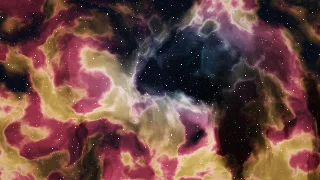
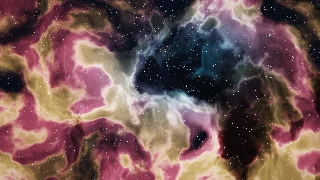
Enhance Hubble Nebula audio reactivity

diff --git a/src/modules/HubbleNebulaModule.ts b/src/modules/HubbleNebulaModule.ts
@@ -8,7 +8,7 @@ import { ShaderModule } from "./ShaderModule";
 const fragment =
   common +
   `
-uniform float uIntensity,uHue,uDust,uStars,uDrift;
+uniform float uIntensity,uHue,uDust,uStars,uDrift,uReactivity;
 vec3 hash3(vec3 p){return fract(sin(vec3(dot(p,vec3(127.1,311.7,74.7)),dot(p,vec3(269.5,183.3,246.1)),dot(p,vec3(113.5,271.9,124.6))))*43758.5453);}
 float noise(vec3 p){
  vec3 i=floor(p),f=fract(p);f=f*f*(3.-2.*f);
@@ -24,21 +24,27 @@ vec3 stars(vec2 p,float layer){
  for(int x=-1;x<=1;x++)for(int y=-1;y<=1;y++){
   vec2 id=cell+vec2(float(x),float(y));vec3 h=hash3(vec3(id,layer+13.));
   vec2 d=grid-id-.15-h.xy*.7;float r=length(d);
-  float bright=pow(h.z,12.);float size=.018+bright*.022;
+  float sparkle=fft(h.y)*uReactivity;
+  float bright=pow(h.z,12.);float size=(.018+bright*.022)*(1.+sparkle*.65);
   float core=exp(-r*r/(size*size));
   float halo=.035*exp(-r*13.);
-  float spikes=exp(-min(abs(d.x),abs(d.y))*150.)*exp(-r*7.)*bright*.45;
+  float spikes=exp(-min(abs(d.x),abs(d.y))*150.)*exp(-r*7.)*bright*(.45+uTreble*uReactivity*1.8);
   vec3 color=mix(vec3(.58,.76,1.),vec3(1.,.78,.51),h.x);
-  col+=color*(core+halo+spikes)*(.25+bright*4.)*(.9+.1*sin(uTime*.6+h.y*30.));
+  col+=color*(core+halo+spikes)*(.25+bright*4.)*(.9+.1*sin(uTime*.6+h.y*30.))*(1.+sparkle*2.+uTreble*uReactivity*.6);
  }
  return col*uStars;
 }
 void main(){
  float t=uTime*.025*uDrift;
  vec2 p=(vUv-.5)*vec2(uResolution.x/uResolution.y,1.)*2.;
- p=rot(.16)*p/(1.+uBass*.035);
+ float bass=uBass*uReactivity,beat=uBeat*uReactivity;
+ p=rot(.16)*p/(1.+bass*.14+beat*.035);
+ // Expanding illumination fronts follow the decaying beat envelope.
+ float radius=length(p-vec2(.35,.22));
+ float front=exp(-pow((radius-(1.-clamp(uBeat,0.,1.))*1.9)/.16,2.))*beat;
  vec3 q=vec3(p*1.65+vec2(t*.12,-t*.08),t*.09);
  vec2 warp=vec2(fbm(q+3.7),fbm(q+19.1))-.5;
+ q.xy+=warp*bass*.38+vec2(-warp.y,warp.x)*uMid*uReactivity*.22;
  float cloud=fbm(q+vec3(warp*2.4,0.));
  float fine=fbm(q*3.4+vec3(warp*3.,2.));
  float bank=smoothstep(.28,.75,cloud);
@@ -46,18 +52,19 @@ void main(){
  float cavity=exp(-dot((p-vec2(.35,.22))*vec2(.9,1.25),(p-vec2(.35,.22))*vec2(.9,1.25))*2.);
  vec3 oxygen=vec3(.045,.48,.72),hydrogen=vec3(.85,.12,.18),sulfur=vec3(1.,.55,.13);
  vec3 gas=mix(hydrogen,sulfur,smoothstep(.37,.67,fine));
- gas=mix(gas,oxygen,cavity*.9);
+ gas=mix(gas,oxygen,clamp(cavity*.9+uMid*uReactivity*.18,0.,1.));
  // Hue shifts preserve the default gold/cyan narrowband-inspired palette.
  gas=mix(gas,gas.gbr,clamp(uHue,0.,1.));
- vec3 col=vec3(.001,.003,.009)+gas*bank*(.24+ridge*.65)*(1.+uRms*.65+uMid*.25);
+ float spectrum=fft(clamp(radius*.45,0.,1.))*uReactivity;
+ vec3 col=vec3(.001,.003,.009)+gas*bank*(.24+ridge*(.65+spectrum*.8))*(1.+uReactivity*(uRms*.9+uMid*.5)+front*1.6);
  float pillars=fbm(vec3(p.x*3.+warp.x*1.6,p.y*.85+warp.y*.8+1.4,t*.035+7.));
  float dust=smoothstep(.48,.7,pillars)*(1.-smoothstep(-.8,.65,p.y))*uDust;
  float transmission=exp(-dust*4.5);
  col*=transmission;
- col+=gas*pow(max(0.,1.-abs(pillars-.5)*22.),3.)*.13*min(uDust,1.5)*bank;
+ col+=gas*pow(max(0.,1.-abs(pillars-.5)*22.),3.)*(.13+bass*.25+front*.4)*min(uDust,1.5)*bank;
  col+=stars(p+vec2(t*.035,0.),0.)*mix(.35,1.,transmission);
  col+=stars(p*.83-vec2(t*.018,0.),1.)*.45;
- col*=uIntensity*(1.+uBeat*.12);
+ col*=uIntensity*(1.+beat*.22);
  col*=1.-.3*smoothstep(.4,2.2,length(p));
  gl_FragColor=vec4(max(col,vec3(0.)),1.);
 }`;
@@ -65,13 +72,22 @@ void main(){
 export class HubbleNebulaModule extends ShaderModule {
   readonly id = "hubble-nebula";
   readonly name = "Hubble Nebula";
-  params = { speed: 1, intensity: 1.6, hue: 0, dust: 1, stars: 1, drift: 1 };
+  params = {
+    speed: 1,
+    intensity: 1.6,
+    hue: 0,
+    dust: 1,
+    stars: 1,
+    drift: 1,
+    reactivity: 1,
+  };
   private readonly extra = {
     uIntensity: { value: 1.6 },
     uHue: { value: 0 },
     uDust: { value: 1 },
     uStars: { value: 1 },
     uDrift: { value: 1 },
+    uReactivity: { value: 1 },
   };
   init(_renderer: T.WebGLRenderer, width: number, height: number) {
     this.pass = new FullscreenPass(fragment, {
@@ -88,6 +104,6 @@ export class HubbleNebulaModule extends ShaderModule {
     this.extra.uDust.value = this.params.dust;
     this.extra.uStars.value = this.params.stars;
     this.extra.uDrift.value = this.params.drift;
+    this.extra.uReactivity.value = this.params.reactivity;
   }
 }
-

diff --git a/README.md b/README.md
@@ -47,7 +47,7 @@ Application-owned frame code creates no arrays, vectors, objects, typed-array vi
 
 ## Extending
 
-**Hubble Nebula** is a procedural scene inspired by Hubble telescope imagery, with gold and cyan emission clouds, dark dust pillars, layered stars and diffraction spikes. Bass gently expands the view, mids and overall audio energy brighten the gas, and beats pulse the exposure. Speed, intensity, hue, dust, stars and drift are adjustable in the control rack. It remains visible without audio and uses the shared HDR, post-processing and deterministic video export pipeline. No telescope photographs or external assets are required.
+**Hubble Nebula** is a procedural scene inspired by Hubble telescope imagery, with gold and cyan emission clouds, dark dust pillars, layered stars and diffraction spikes. Bass expands and bends the clouds, mids shift the gas toward cyan, and beats send expanding illumination fronts across the dust. Individual spectrum bands light cloud filaments and stars, while treble strengthens their diffraction spikes. Speed, intensity, hue, dust, stars, drift and reactivity are adjustable in the control rack; reactivity at zero disables the audio response. It remains visible without audio and uses the shared HDR, post-processing and deterministic video export pipeline. No telescope photographs or external assets are required.
 
 Five additional shader scenes adapt the psychedelic ring engine: **Psychedelic Bloom** folds nested petal rings into a breathing kaleidoscope; **Acid Chrome** shades flowing ripples with metallic highlights and iridescent reflections; **Pulse Reactor** surrounds a bass-reactive core with waveform containment rings and kick-triggered shockwaves; **Prismatic Tunnel** projects continuous twisting, eight-sided spectral walls into depth; **Topographic Contours** carves domain-warped simplex terrain into shifting hypsometric elevation bands and anti-aliased minor and major index isolines. Each has speed, intensity, hue and warp controls, with symmetry for Bloom, twist for the tunnel, and contour density and relief shading for Topographic Contours. They use the shared HDR, neon overlay, master FX and video export pipeline.
 
